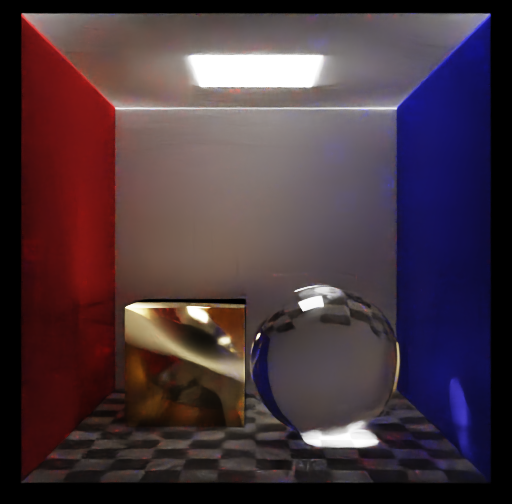
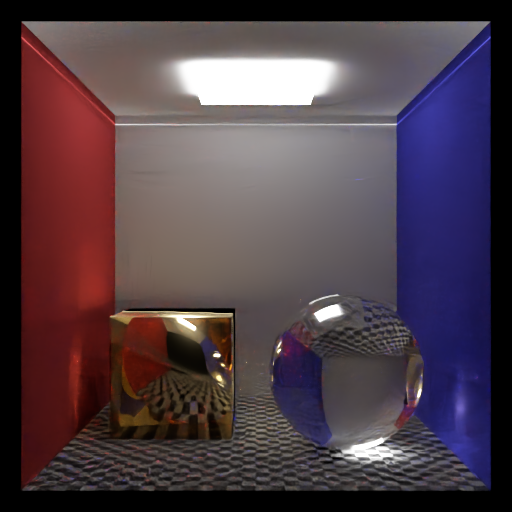
feat: align rendering with reference + add offscreen renderer
Scene parameters aligned with libVLR_reference:

- Light emission 30.0, wall albedo sRGB-linearized (0.5225/0.0509)

- Tonemap: ACES Filmic -> 1-exp(-x), Gamma: pow(1/2.2) -> sRGB

- Gold conductor IOR from reference, roughness 0.01

- Diamond sphere IOR 2.42, checkerboard density 64

- Firefly clamp relaxed to absolute 100 threshold

- New offscreen_render.exe: headless CUDA rendering with PNG output

Made-with: Cursor

diff --git a/viewer/examples/offscreen_render.cpp b/viewer/examples/offscreen_render.cpp
@@ -1,0 +1,215 @@
+// ============================================================================
+// VLR Offscreen Renderer
+//
+// 无窗口离屏渲染：构建 Cornell Box 场景 → 渲染 N spp → 保存 PNG。
+// 不依赖 GLFW/OpenGL/ImGui。
+// ============================================================================
+
+#include <vlr/vlr.h>
+#include <cuda_runtime.h>
+#include <cstdio>
+#include <cstdlib>
+#include <cstring>
+#include <cmath>
+#include <vector>
+#include <chrono>
+
+#define STB_IMAGE_WRITE_IMPLEMENTATION
+#include "../../test/stb_image_write.h"
+
+static uint32_t g_width  = 512;
+static uint32_t g_height = 512;
+static int      g_spp    = 256;
+static float    g_exposure = 2.0f;
+static const char* g_outPath = "docs/images/cornell_box_render.png";
+
+// ============================================================================
+// Cornell Box 场景（与 interactive_viewer 参数完全一致）
+// ============================================================================
+static bool buildScene(VLRScene scene) {
+    VLRResult res;
+
+    float white[]  = { 0.5225f, 0.5225f, 0.5225f };
+    float red[]    = { 0.5225f, 0.0509f, 0.0509f };
+    float blue[]   = { 0.0509f, 0.0509f, 0.5225f };
+    float gold_eta[]   = { 0.12481f, 0.46823f, 1.44476f };
+    float gold_kappa[] = { 3.32107f, 2.23761f, 1.69196f };
+    float lightEmission[] = { 30.0f, 30.0f, 30.0f };
+
+    VLRMaterial whiteMat = nullptr, redMat = nullptr, blueMat = nullptr;
+    VLRMaterial goldMat = nullptr, lightMat = nullptr, diamondMat = nullptr;
+    VLRMaterial checkerMat = nullptr;
+
+    res = vlrCreateMaterial(scene, 0, white, nullptr, &whiteMat);
+    if (res != VLRResult_Success) return false;
+    res = vlrCreateMaterial(scene, 0, red, nullptr, &redMat);
+    if (res != VLRResult_Success) return false;
+    res = vlrCreateMaterial(scene, 0, blue, nullptr, &blueMat);
+    if (res != VLRResult_Success) return false;
+    res = vlrCreateMaterialConductor(scene, gold_eta, gold_kappa, 0.01f, &goldMat);
+    if (res != VLRResult_Success) return false;
+    res = vlrCreateMaterial(scene, 0, white, lightEmission, &lightMat);
+    if (res != VLRResult_Success) return false;
+    float diamondColor[] = { 0.999f, 0.999f, 0.999f };
+    res = vlrCreateMaterialEx(scene, 6, diamondColor, 0.0f, 0.0f, 2.42f, nullptr, &diamondMat);
+    if (res != VLRResult_Success) return false;
+    float checkerDark[] = { 0.05f, 0.05f, 0.05f };
+    float checkerLight[] = { 0.50f, 0.50f, 0.50f };
+    res = vlrCreateMaterialCheckerboard(scene, checkerDark, checkerLight, 64, 3.0f, &checkerMat);
+    if (res != VLRResult_Success) return false;
+
+    float pos0[] = {0,0,0}, sc1[] = {1,1,1}, ay[] = {0,1,0};
+    VLRInstance inst = nullptr;
+    VLRTriangleMesh m = nullptr;
+
+    // 地板
+    float floorV[] = { -1.5f,0,-1.5f, 1.5f,0,-1.5f, 1.5f,0,1.5f, -1.5f,0,1.5f };
+    uint32_t floorI[] = { 0,1,2, 0,2,3 };
+    vlrCreateTriangleMesh(scene, floorV, 4, floorI, 2, checkerMat, &m);
+    vlrCreateInstance(scene, m, pos0, sc1, ay, 0, &inst);
+
+    // 天花板
+    float ceilV[] = { -1.5f,3,-1.5f, 1.5f,3,-1.5f, 1.5f,3,1.5f, -1.5f,3,1.5f };
+    uint32_t ceilI[] = { 0,2,1, 0,3,2 };
+    vlrCreateTriangleMesh(scene, ceilV, 4, ceilI, 2, whiteMat, &m);
+    vlrCreateInstance(scene, m, pos0, sc1, ay, 0, &inst);
+
+    // 后墙
+    float backV[] = { -1.5f,0,-1.5f, 1.5f,0,-1.5f, 1.5f,3,-1.5f, -1.5f,3,-1.5f };
+    uint32_t backI[] = { 0,1,2, 0,2,3 };
+    vlrCreateTriangleMesh(scene, backV, 4, backI, 2, whiteMat, &m);
+    vlrCreateInstance(scene, m, pos0, sc1, ay, 0, &inst);
+
+    // 左墙（红）
+    float leftV[] = { -1.5f,0,-1.5f, -1.5f,0,1.5f, -1.5f,3,1.5f, -1.5f,3,-1.5f };
+    uint32_t leftI[] = { 0,1,2, 0,2,3 };
+    vlrCreateTriangleMesh(scene, leftV, 4, leftI, 2, redMat, &m);
+    vlrCreateInstance(scene, m, pos0, sc1, ay, 0, &inst);
+
+    // 右墙（蓝）
+    float rightV[] = { 1.5f,0,-1.5f, 1.5f,0,1.5f, 1.5f,3,1.5f, 1.5f,3,-1.5f };
+    uint32_t rightI[] = { 0,2,1, 0,3,2 };
+    vlrCreateTriangleMesh(scene, rightV, 4, rightI, 2, blueMat, &m);
+    vlrCreateInstance(scene, m, pos0, sc1, ay, 0, &inst);
+
+    // 光源
+    float lightV[] = { -0.5f,2.9f,-0.5f, 0.5f,2.9f,-0.5f, 0.5f,2.9f,0.5f, -0.5f,2.9f,0.5f };
+    uint32_t lightI[] = { 0,2,1, 0,3,2 };
+    vlrCreateTriangleMesh(scene, lightV, 4, lightI, 2, lightMat, &m);
+    VLRInstance li = nullptr;
+    vlrCreateInstance(scene, m, pos0, sc1, ay, 0, &li);
+    vlrAddAreaLight(scene, li);
+
+    // 金属盒子
+    float bx=-0.7f, by=0, bz=-0.25f, bs=0.5f;
+    float boxV[] = {
+        bx-bs,by,bz-bs, bx+bs,by,bz-bs, bx+bs,by,bz+bs, bx-bs,by,bz+bs,
+        bx-bs,by+1,bz-bs, bx+bs,by+1,bz-bs, bx+bs,by+1,bz+bs, bx-bs,by+1,bz+bs,
+    };
+    uint32_t boxI[] = { 0,1,2,0,2,3, 4,6,5,4,7,6, 0,4,5,0,5,1, 2,6,7,2,7,3, 0,3,7,0,7,4, 1,5,6,1,6,2 };
+    vlrCreateTriangleMesh(scene, boxV, 8, boxI, 12, goldMat, &m);
+    vlrCreateInstance(scene, m, pos0, sc1, ay, 0, &inst);
+
+    // 钻石球
+    {
+        constexpr int SL = 64, ST = 64;
+        float cx=0.7f, cy=0.6f, cz=0.5f, cr=0.6f;
+        std::vector<float> sv; std::vector<uint32_t> si;
+        for (int j = 0; j <= ST; ++j) {
+            float t = 3.14159265f * j / ST, sn = sinf(t), cs = cosf(t);
+            for (int i = 0; i <= SL; ++i) {
+                float p = 6.28318530f * i / SL;
+                sv.push_back(cx+cr*sn*cosf(p)); sv.push_back(cy+cr*cs); sv.push_back(cz+cr*sn*sinf(p));
+            }
+        }
+        for (int j = 0; j < ST; ++j)
+            for (int i = 0; i < SL; ++i) {
+                uint32_t a = j*(SL+1)+i, b = a+SL+1;
+                si.push_back(a); si.push_back(a+1); si.push_back(b);
+                si.push_back(a+1); si.push_back(b+1); si.push_back(b);
+            }
+        VLRTriangleMesh sm = nullptr;
+        vlrCreateTriangleMesh(scene, sv.data(), (uint32_t)(sv.size()/3), si.data(), (uint32_t)(si.size()/3), diamondMat, &sm);
+        VLRInstance si2 = nullptr;
+        vlrCreateInstance(scene, sm, pos0, sc1, ay, 0, &si2);
+    }
+
+    // 相机
+    VLRCameraParams cam = {};
+    cam.position[0]=0; cam.position[1]=1.5f; cam.position[2]=6.0f;
+    cam.direction[0]=0; cam.direction[1]=0; cam.direction[2]=-1;
+    cam.up[0]=0; cam.up[1]=1; cam.up[2]=0;
+    cam.fovY = 40.0f * 3.14159265f / 180.0f;
+    cam.aspect = (float)g_width / g_height;
+    vlrSetCamera(scene, &cam);
+    return true;
+}
+
+// ============================================================================
+// main
+// ============================================================================
+int main(int argc, char* argv[]) {
+    for (int i = 1; i < argc; i++) {
+        if (strcmp(argv[i], "-w") == 0 && i+1 < argc) g_width = atoi(argv[++i]);
+        else if (strcmp(argv[i], "-h") == 0 && i+1 < argc) g_height = atoi(argv[++i]);
+        else if (strcmp(argv[i], "-s") == 0 && i+1 < argc) g_spp = atoi(argv[++i]);
+        else if (strcmp(argv[i], "-e") == 0 && i+1 < argc) g_exposure = (float)atof(argv[++i]);
+        else if (strcmp(argv[i], "-o") == 0 && i+1 < argc) g_outPath = argv[++i];
+    }
+
+    printf("=== VLR Offscreen Renderer ===\n");
+    printf("  Resolution: %ux%u\n", g_width, g_height);
+    printf("  SPP: %d\n", g_spp);
+    printf("  Exposure: %.2f\n", g_exposure);
+    printf("  Output: %s\n\n", g_outPath);
+
+    VLRContext context = nullptr;
+    VLRScene scene = nullptr;
+
+    VLRResult res = vlrCreateContext(nullptr, 0, &context);
+    if (res != VLRResult_Success) { fprintf(stderr, "vlrCreateContext failed: %d\n", res); return 1; }
+    res = vlrCreateScene(context, &scene);
+    if (res != VLRResult_Success) { fprintf(stderr, "vlrCreateScene failed: %d\n", res); return 1; }
+
+    printf("[VLR] Building scene...\n");
+    if (!buildScene(scene)) { fprintf(stderr, "Failed to build scene\n"); return 1; }
+
+    vlrSetDenoiserConfig(context, true, false, false, 1.0f);
+
+    printf("[VLR] Starting render (%d spp, denoiser ON)...\n", g_spp);
+    vlrBeginProgressive(context, scene, g_width, g_height);
+
+    auto t0 = std::chrono::steady_clock::now();
+    uint32_t accumFrames = 0;
+    for (int s = 0; s < g_spp; s++) {
+        vlrRenderOneSample(context, &accumFrames);
+        if ((s+1) % 32 == 0 || s+1 == g_spp)
+            printf("  [%d/%d spp]\n", s+1, g_spp);
+    }
+    auto t1 = std::chrono::steady_clock::now();
+    float elapsed = std::chrono::duration<float>(t1 - t0).count();
+    printf("[VLR] Render complete: %d spp in %.2f s (%.1f spp/s)\n",
+           g_spp, elapsed, g_spp / elapsed);
+
+    // Tonemap to RGBA8 (CUDA device buffer → host)
+    uint32_t numPixels = g_width * g_height;
+    uint8_t* d_rgba = nullptr;
+    cudaMalloc(&d_rgba, numPixels * 4);
+    vlrTonemapToRGBA8(context, d_rgba, g_exposure, 2.2f);
+
+    std::vector<uint8_t> h_rgba(numPixels * 4);
+    cudaMemcpy(h_rgba.data(), d_rgba, numPixels * 4, cudaMemcpyDeviceToHost);
+    cudaFree(d_rgba);
+
+    // 保存 PNG
+    int ok = stbi_write_png(g_outPath, g_width, g_height, 4, h_rgba.data(), g_width * 4);
+    if (ok) {
+        printf("[OK] Saved: %s\n", g_outPath);
+    } else {
+        fprintf(stderr, "[FAIL] Could not save: %s\n", g_outPath);
+    }
+
+    vlrDestroyScene(scene);
+    vlrDestroyContext(context);
+    return ok ? 0 : 1;
+}

diff --git a/viewer/examples/interactive_viewer.cpp b/viewer/examples/interactive_viewer.cpp
@@ -38,7 +38,7 @@ static struct AppState {
     uint32_t height = 512;
     uint32_t accumFrames = 0;
     int maxSamples = 256;
-    float exposure = 3.0f;
+    float exposure = 1.5f;
     float gamma = 2.2f;
     bool paused = false;
     bool needReset = false;
@@ -67,15 +67,15 @@ static struct AppState {
 static bool buildCornellBoxScene() {
     VLRResult res;
 
-    float white[]  = { 0.73f, 0.73f, 0.73f };
-    float red[]    = { 0.65f, 0.05f, 0.05f };
-    float blue[]   = { 0.05f, 0.05f, 0.65f };
-    float gold_eta[]   = { 0.18f, 0.47f, 1.46f };
-    float gold_kappa[] = { 3.10f, 2.38f, 1.95f };
-    float lightEmission[] = { 15.0f, 15.0f, 15.0f };
+    float white[]  = { 0.5225f, 0.5225f, 0.5225f };
+    float red[]    = { 0.5225f, 0.0509f, 0.0509f };
+    float blue[]   = { 0.0509f, 0.0509f, 0.5225f };
+    float gold_eta[]   = { 0.12481f, 0.46823f, 1.44476f };
+    float gold_kappa[] = { 3.32107f, 2.23761f, 1.69196f };
+    float lightEmission[] = { 30.0f, 30.0f, 30.0f };
 
     VLRMaterial whiteMat = nullptr, redMat = nullptr, blueMat = nullptr;
-    VLRMaterial goldMat = nullptr, lightMat = nullptr, glassMat = nullptr;
+    VLRMaterial goldMat = nullptr, lightMat = nullptr, diamondMat = nullptr;
     VLRMaterial checkerMat = nullptr;
 
     res = vlrCreateMaterial(g.scene, 0, white, nullptr, &whiteMat);
@@ -84,16 +84,16 @@ static bool buildCornellBoxScene() {
     if (res != VLRResult_Success) return false;
     res = vlrCreateMaterial(g.scene, 0, blue, nullptr, &blueMat);
     if (res != VLRResult_Success) return false;
-    res = vlrCreateMaterialConductor(g.scene, gold_eta, gold_kappa, 0.2f, &goldMat);
+    res = vlrCreateMaterialConductor(g.scene, gold_eta, gold_kappa, 0.01f, &goldMat);
     if (res != VLRResult_Success) return false;
     res = vlrCreateMaterial(g.scene, 0, white, lightEmission, &lightMat);
     if (res != VLRResult_Success) return false;
-    float glassColor[] = { 1.0f, 1.0f, 1.0f };
-    res = vlrCreateMaterialEx(g.scene, 6, glassColor, 0.0f, 0.0f, 1.5f, nullptr, &glassMat);
+    float diamondColor[] = { 0.999f, 0.999f, 0.999f };
+    res = vlrCreateMaterialEx(g.scene, 6, diamondColor, 0.0f, 0.0f, 2.42f, nullptr, &diamondMat);
     if (res != VLRResult_Success) return false;
-    float checkerDark[] = { 0.15f, 0.15f, 0.15f };
-    float checkerLight[] = { 0.65f, 0.65f, 0.65f };
-    res = vlrCreateMaterialCheckerboard(g.scene, checkerDark, checkerLight, 24, 3.0f, &checkerMat);
+    float checkerDark[] = { 0.05f, 0.05f, 0.05f };
+    float checkerLight[] = { 0.50f, 0.50f, 0.50f };
+    res = vlrCreateMaterialCheckerboard(g.scene, checkerDark, checkerLight, 64, 3.0f, &checkerMat);
     if (res != VLRResult_Success) return false;
 
     float pos0[] = {0,0,0}, sc1[] = {1,1,1}, ay[] = {0,1,0};
@@ -130,16 +130,16 @@ static bool buildCornellBoxScene() {
     vlrCreateTriangleMesh(g.scene, rightV, 4, rightI, 2, blueMat, &m);
     vlrCreateInstance(g.scene, m, pos0, sc1, ay, 0, &inst);
 
-    // 光源
-    float lightV[] = { -0.5f,2.99f,-0.5f, 0.5f,2.99f,-0.5f, 0.5f,2.99f,0.5f, -0.5f,2.99f,0.5f };
+    // 光源 (y=2.9 与参考一致)
+    float lightV[] = { -0.5f,2.9f,-0.5f, 0.5f,2.9f,-0.5f, 0.5f,2.9f,0.5f, -0.5f,2.9f,0.5f };
     uint32_t lightI[] = { 0,2,1, 0,3,2 };
     vlrCreateTriangleMesh(g.scene, lightV, 4, lightI, 2, lightMat, &m);
     VLRInstance li = nullptr;
     vlrCreateInstance(g.scene, m, pos0, sc1, ay, 0, &li);
     vlrAddAreaLight(g.scene, li);
 
-    // 金属盒子（左后方）
-    float bx=-0.6f, by=0, bz=-0.4f, bs=0.5f;
+    // 金属盒子（左侧，接近参考图位置）
+    float bx=-0.7f, by=0, bz=-0.25f, bs=0.5f;
     float boxV[] = {
         bx-bs,by,bz-bs, bx+bs,by,bz-bs, bx+bs,by,bz+bs, bx-bs,by,bz+bs,
         bx-bs,by+1,bz-bs, bx+bs,by+1,bz-bs, bx+bs,by+1,bz+bs, bx-bs,by+1,bz+bs,
@@ -148,25 +148,30 @@ static bool buildCornellBoxScene() {
     vlrCreateTriangleMesh(g.scene, boxV, 8, boxI, 12, goldMat, &m);
     vlrCreateInstance(g.scene, m, pos0, sc1, ay, 0, &inst);
 
-    // 玻璃球
-    constexpr int SL = 64, ST = 64;
-    float cx=0.55f, cy=0.6f, cz=0.35f, cr=0.6f;
-    std::vector<float> sv; std::vector<uint32_t> si;
-    for (int j = 0; j <= ST; ++j) {
-        float t = 3.14159265f * j / ST, sn = sinf(t), cs = cosf(t);
-        for (int i = 0; i <= SL; ++i) {
-            float p = 6.28318530f * i / SL;
-            sv.push_back(cx+cr*sn*cosf(p)); sv.push_back(cy+cr*cs); sv.push_back(cz+cr*sn*sinf(p));
+    // 钻石球（右侧，IOR=2.42）
+    auto makeSphere = [&](float cx, float cy, float cz, float cr, VLRMaterial mat) {
+        constexpr int SL = 64, ST = 64;
+        std::vector<float> sv; std::vector<uint32_t> si;
+        for (int j = 0; j <= ST; ++j) {
+            float t = 3.14159265f * j / ST, sn = sinf(t), cs = cosf(t);
+            for (int i = 0; i <= SL; ++i) {
+                float p = 6.28318530f * i / SL;
+                sv.push_back(cx+cr*sn*cosf(p)); sv.push_back(cy+cr*cs); sv.push_back(cz+cr*sn*sinf(p));
+            }
         }
-    }
-    for (int j = 0; j < ST; ++j)
-        for (int i = 0; i < SL; ++i) {
-            uint32_t a = j*(SL+1)+i, b = a+SL+1;
-            si.push_back(a); si.push_back(a+1); si.push_back(b);
-            si.push_back(a+1); si.push_back(b+1); si.push_back(b);
-        }
-    vlrCreateTriangleMesh(g.scene, sv.data(), (uint32_t)(sv.size()/3), si.data(), (uint32_t)(si.size()/3), glassMat, &m);
-    vlrCreateInstance(g.scene, m, pos0, sc1, ay, 0, &inst);
+        for (int j = 0; j < ST; ++j)
+            for (int i = 0; i < SL; ++i) {
+                uint32_t a = j*(SL+1)+i, b = a+SL+1;
+                si.push_back(a); si.push_back(a+1); si.push_back(b);
+                si.push_back(a+1); si.push_back(b+1); si.push_back(b);
+            }
+        VLRTriangleMesh sm = nullptr;
+        vlrCreateTriangleMesh(g.scene, sv.data(), (uint32_t)(sv.size()/3), si.data(), (uint32_t)(si.size()/3), mat, &sm);
+        VLRInstance si2 = nullptr;
+        vlrCreateInstance(g.scene, sm, pos0, sc1, ay, 0, &si2);
+    };
+
+    makeSphere(0.7f, 0.6f, 0.5f, 0.6f, diamondMat);
 
     // 相机
     VLRCameraParams cam = {};
@@ -308,7 +313,7 @@ static void drawImGui() {
         if (ImGui::CollapsingHeader("Tonemap", ImGuiTreeNodeFlags_DefaultOpen)) {
             ImGui::SliderFloat("Exposure", &g.exposure, 0.1f, 10.0f, "%.2f");
             ImGui::SliderFloat("Gamma", &g.gamma, 1.0f, 3.0f, "%.2f");
-            if (ImGui::Button("Reset Tonemap")) { g.exposure = 3.0f; g.gamma = 2.2f; }
+            if (ImGui::Button("Reset Tonemap")) { g.exposure = 1.0f; g.gamma = 2.2f; }
         }
 
         ImGui::Separator();
